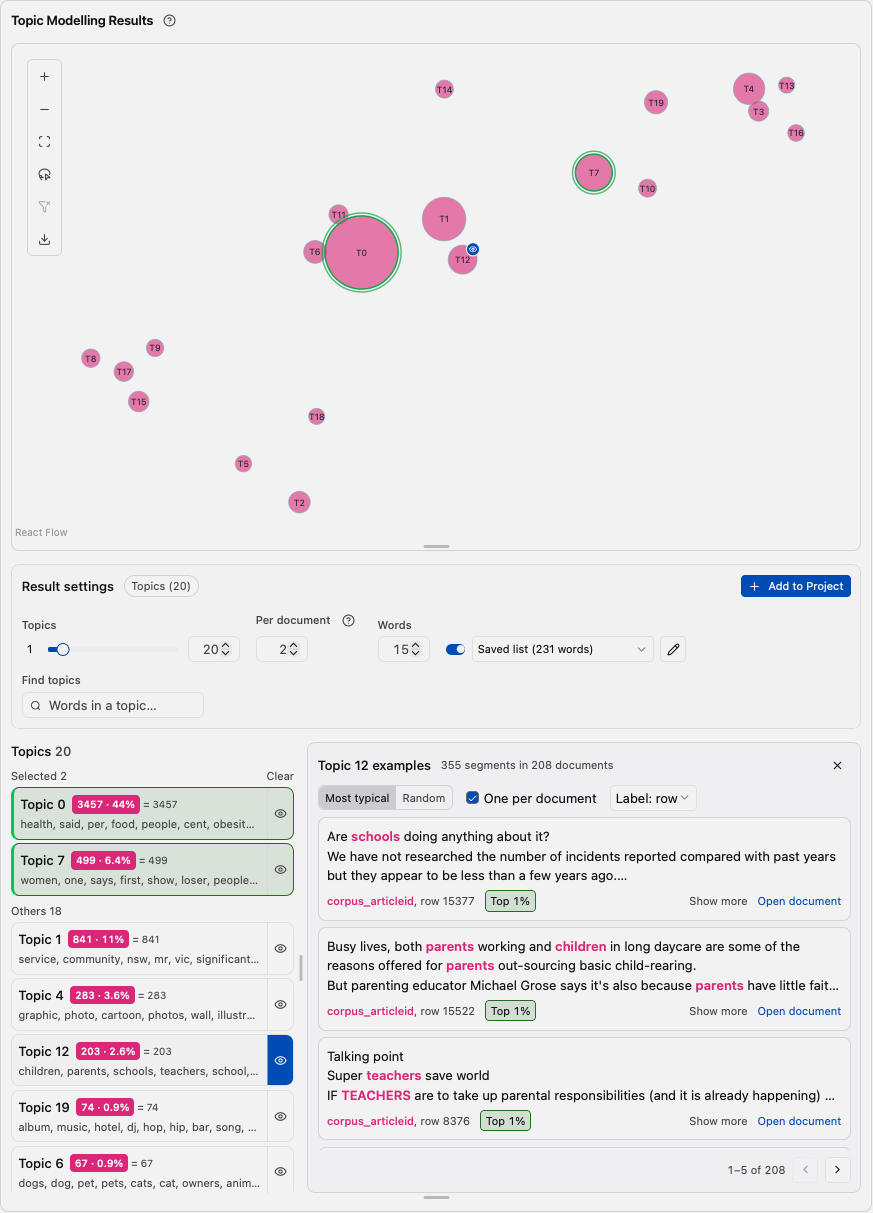
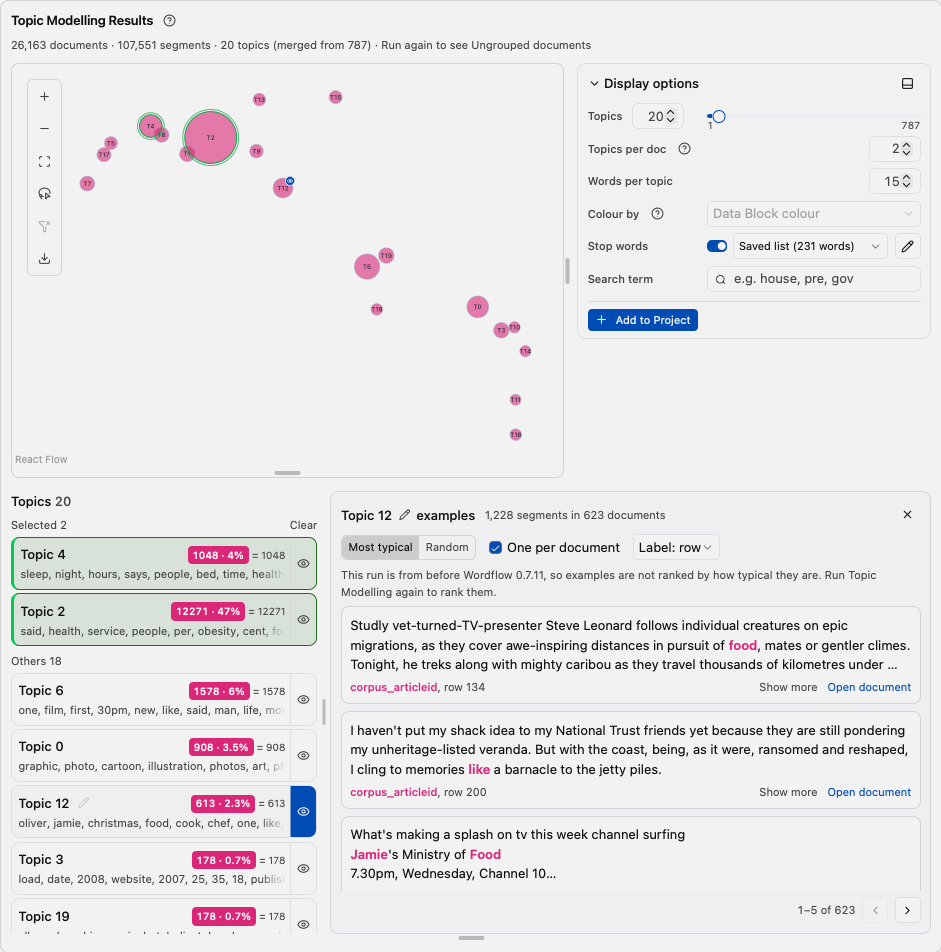
Topic Modelling: "Topics per doc"; help screenshots for Display options (#433)
Chao, 2026-10-24: "Topics per doc" for the Top topics per document
control (summary "2 topics per doc"). Help: results and Display options
screenshots retaken (options beside a 4:3 chart; the compact row below
it), alt texts and the Topics per doc heading. The compact row's search
box is a little wider so its example fits.

diff --git a/frontend/src/features/views/topic-modeling/components/panels/TopicModelingResultsPanel.tsx b/frontend/src/features/views/topic-modeling/components/panels/TopicModelingResultsPanel.tsx
@@ -174,7 +174,7 @@ function FindTopicsInput({
           // Examples show that parts of words and several terms work (issue 434).
           placeholder="e.g. house, pre, gov"
           title="Words or parts of words, separated by spaces or commas. Topics with any of them match."
-          className={`h-8 ${classes.column ? 'w-full' : 'w-48'} rounded-md border border-input-border bg-editor pr-3 pl-8 text-body placeholder:text-description focus:border-focus focus:ring-1 focus:ring-focus focus:outline-hidden`}
+          className={`h-8 ${classes.column ? 'w-full' : 'w-56'} rounded-md border border-input-border bg-editor pr-3 pl-8 text-body placeholder:text-description focus:border-focus focus:ring-1 focus:ring-focus focus:outline-hidden`}
         />
       </div>
     </div>
@@ -562,7 +562,7 @@ function TopNTopicsControl({
     <div className={classes.control}>
       <div className="flex items-center gap-1.5">
         <label htmlFor="topic-top-n" className="font-medium">
-          Topics per document
+          Topics per doc
         </label>
         <HelpIcon
           targetKey="analysis.topic-modeling.top-topics-per-row"
@@ -784,7 +784,7 @@ export function TopicModelingResultsPanel({
                       >
                         {[
                           topicInclusion
-                            ? `${String(topicInclusion.top_n_topics)} topics per document`
+                            ? `${String(topicInclusion.top_n_topics)} topics per doc`
                             : null,
                           `${String(wordsPerTopic)} words per topic`,
                           colorBy?.loaded ? `Colour: ${colorBy.column ?? 'Data Block'}` : null,

diff --git a/frontend/src/features/views/topic-modeling/components/panels/__tests__/TopicModelingResultsPanel.test.tsx b/frontend/src/features/views/topic-modeling/components/panels/__tests__/TopicModelingResultsPanel.test.tsx
@@ -633,7 +633,7 @@ describe('TopicModelingResultsPanel', () => {
     expect(screen.getByText('Display options')).toBeInTheDocument();
     // Short visible labels (issue 152); the inputs keep their full names.
     expect(screen.queryByText('Topic structure')).not.toBeInTheDocument();
-    expect(screen.getByText('Topics per document')).toBeInTheDocument();
+    expect(screen.getByText('Topics per doc')).toBeInTheDocument();
     expect(screen.getByLabelText('Top topics per document')).toBeInTheDocument();
     expect(screen.getByLabelText('Words per topic')).toBeInTheDocument();
     expect(screen.queryByText(explanation)).not.toBeInTheDocument();

diff --git a/frontend/public/tutorials/topic-modeling.md b/frontend/public/tutorials/topic-modeling.md
@@ -289,10 +289,10 @@ selected. See [How Preview, Run and Clear work](./ui.md#help-ui-preview-run-clea
 
 <h2 id="help-topic-modeling-results">Result panel</h2>
 
-![Topic Modelling results: the bubble chart, Display options, and the topic list beside the examples of Topic 12](tutorials/assets/topic_modelling/results.png)
+![Topic Modelling results: the bubble chart with the Display options beside it, and the topic list beside the examples of Topic 12](tutorials/assets/topic_modelling/results.png)
 
 The **Display options** change how the result is shown: **Topics**, **Topics
-per document**, **Words per topic**, **Colour by**, the stop word controls and the
+per doc** (top topics per document), **Words per topic**, **Colour by**, the stop word controls and the
 **Search term**, with **Add to Project**. Question-mark icons beside some of
 these controls give a short explanation. On a wide results panel the options
 sit beside the bubble chart, with the colour legend: one option per row, the
@@ -302,7 +302,7 @@ narrow the chart (double-click it to go back to 4:3). The panel icon at the
 right of the Display options heading moves the options below the chart, in a
 compact row, and back beside it. On a narrower panel they always sit below the
 chart. Click **Display options** to fold them to one summary line, such as "2
-topics per document · 15 words per topic · Colour: Data Block · Stop words on"; the
+topics per doc · 15 words per topic · Colour: Data Block · Stop words on"; the
 search term and Add to Project stay available. The tab remembers these choices
 on this computer. Below the chart and options, the topic list takes the left third and the
 [examples of one topic](#help-topic-modeling-examples) the rest; drag the
@@ -310,7 +310,7 @@ divider between them to widen the list (double-click it to go back to a
 third). In a narrow window the list sits above the examples. The area has its own
 resize grip, like the chart itself.
 
-![Display options: Topics, Topics per document, Words per topic, the stop words switch and list, and the search term](tutorials/assets/topic_modelling/result_settings.png)
+![Display options moved below the chart, in a compact row: Topics, Topics per doc, Words per topic, Colour by, the stop words switch and list, the search term and Add to Project](tutorials/assets/topic_modelling/result_settings.png)
 
 <h3 id="help-topic-modeling-number-of-clusters">Topics (number of topics)</h3>
 
@@ -361,7 +361,7 @@ selecting a Topic. Its examples are shown in random order, since Ungrouped has
 no centre to rank them by.
 
 **Why only fully Ungrouped documents.** Ungrouped is not ranked in **Topics
-per document** (Top topics per document), because it is not a theme: it is the
+per doc** (Top topics per document), because it is not a theme: it is the
 passages that matched none. If it were ranked, a document that is 60% Ungrouped
 and 40% about a sugar tax would leave the sugar tax bubble at Top 1, hiding the
 one thing it is about, and the Ungrouped bubble would hold two thirds of the
@@ -408,7 +408,7 @@ can be about one percentage point. A larger size can put almost everything into
 one Topic. With **Suggestions** on, a result with many Ungrouped documents
 suggests trying a smaller Min topic size.
 
-<h3 id="help-topic-modeling-top-topics-per-row">Topics per document (top topics per document)</h3>
+<h3 id="help-topic-modeling-top-topics-per-row">Topics per doc (top topics per document)</h3>
 
 **Top topics per document** controls how many of each source row's strongest
 positive real-topic shares contribute to bubble counts. The default is 2. Topic
@@ -704,7 +704,7 @@ available for the next run.
 | Topic size | 10 to Auto |
 | Seed | 0 |
 | Topic sampling | Off; suggested for very large corpora |
-| Topics per document | 2, or the available Topic count when smaller |
+| Topics per doc | 2, or the available Topic count when smaller |
 | Words per topic | 15 |
 
 ## Practice exercise

diff --git a/docs/releases/v0.7.17.md b/docs/releases/v0.7.17.md
@@ -3,6 +3,6 @@ Wordflow 0.7.17 (not yet released; draft). The 0.7.16 notes will follow at relea
 ## New in 0.7.17
 
 - **The last Topic Modelling step is much faster**: "finding each topic's words" could run for minutes on one processor with a large corpus. It now takes seconds and uses all the processors it may. The topics, their words and the map are exactly as before.
-- **Topic Modelling Display options, beside the bubble chart on wide screens**: the Result settings are now called **Display options**, because they change how the result is shown. When the results panel is wide, they sit beside a 4:3 bubble chart, one option per row with the colour legend, instead of below a wide chart. Drag the divider between them to change the chart's width (double-click to return to 4:3), or click the panel icon at the right of the heading to move the options below the chart, where they take a compact row with each label beside its control. Click **Display options** to fold them to one summary line on a small screen. **Find topics** is now **Search term**, **Per document** is **Topics per document**, and **Words** is **Words per topic**. The Topics slider shows its smallest and largest values under the bar. The tab remembers these choices on this computer.
+- **Topic Modelling Display options, beside the bubble chart on wide screens**: the Result settings are now called **Display options**, because they change how the result is shown. When the results panel is wide, they sit beside a 4:3 bubble chart, one option per row with the colour legend, instead of below a wide chart. Drag the divider between them to change the chart's width (double-click to return to 4:3), or click the panel icon at the right of the heading to move the options below the chart, where they take a compact row with each label beside its control. Click **Display options** to fold them to one summary line on a small screen. **Find topics** is now **Search term**, **Per document** is **Topics per doc**, and **Words** is **Words per topic**. The Topics slider shows its smallest and largest values under the bar. The tab remembers these choices on this computer.
 - **Search several terms at once in Topic Modelling**: the **Search term** now takes several words separated by spaces, commas or other punctuation, and finds topics with any of them. Each term's matching words are bold in their own colour in the topic list and in a bubble's word cloud, so with "chil, home" *child* and *children* share one colour and *home* and *homeless* another. The box shows an example: "e.g. house, pre, gov".
 - **The Topics slider starts at two topics** for new runs, because a single topic is the whole corpus. Results from earlier runs keep their range.
